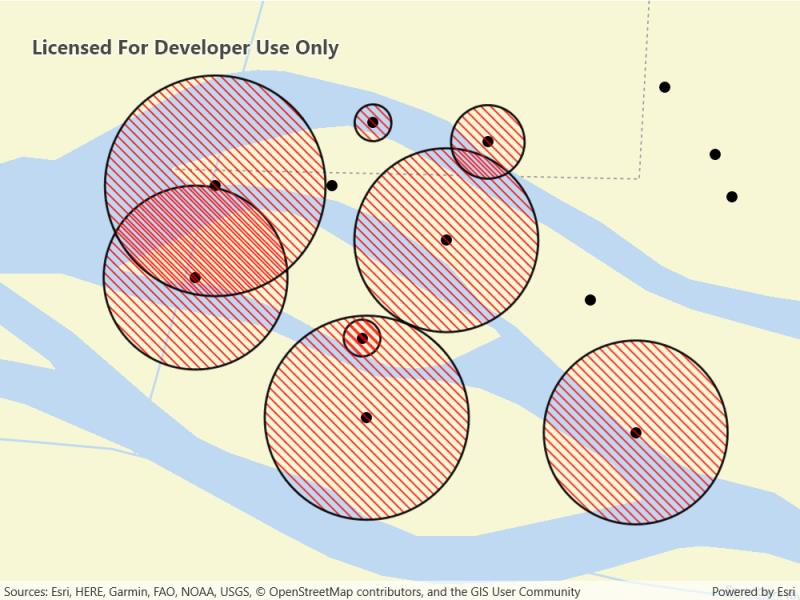
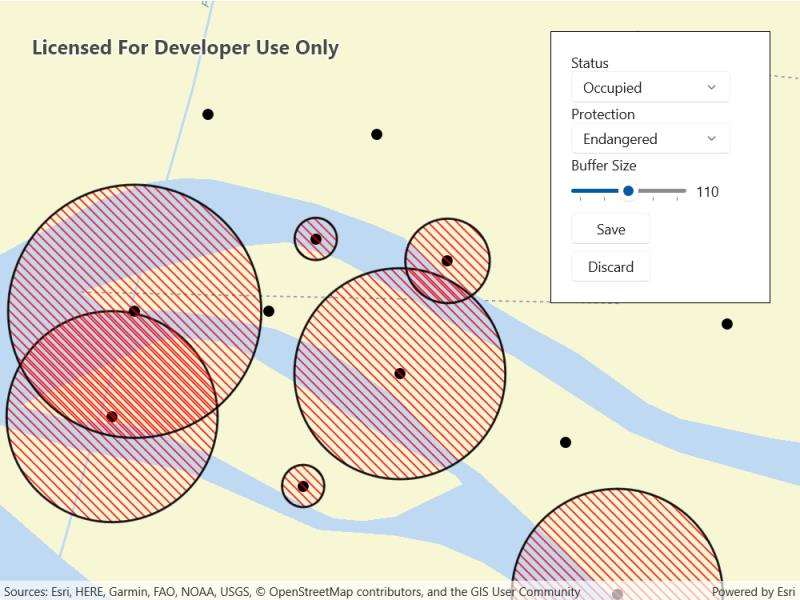
Implemented PR feedback

diff --git a/src/WinUI/ArcGISRuntime.WinUI.Viewer/Samples/Data/AddFeaturesWithContingentValues/AddFeaturesWithContingentValues.xaml b/src/WinUI/ArcGISRuntime.WinUI.Viewer/Samples/Data/AddFeaturesWithContingentValues/AddFeaturesWithContingentValues.xaml
@@ -22,7 +22,7 @@
                             TickPlacement="BottomRight" />
                     <TextBlock Width="40"
                                Height="20"
-                               Margin="5,0"
+                               Margin="10,0"
                                Text="{Binding ElementName=BufferSizeSlider, Path=Value, UpdateSourceTrigger=PropertyChanged}"
                                TextAlignment="left" />
                 </StackPanel>

diff --git a/src/WPF/ArcGISRuntime.WPF.Viewer/Samples/Data/AddFeaturesWithContingentValues/AddFeaturesWithContingentValues.xaml b/src/WPF/ArcGISRuntime.WPF.Viewer/Samples/Data/AddFeaturesWithContingentValues/AddFeaturesWithContingentValues.xaml
@@ -22,6 +22,7 @@
                             TickPlacement="BottomRight" />
                     <TextBlock Width="40"
                                Height="20"
+                               Margin="5,0"
                                Text="{Binding ElementName=BufferSizeSlider, Path=Value, UpdateSourceTrigger=PropertyChanged}"
                                TextAlignment="left" />
                 </StackPanel>

diff --git a/src/Forms/Shared/Samples/Data/AddFeaturesWithContingentValues/AddFeaturesWithContingentValues.xaml b/src/Forms/Shared/Samples/Data/AddFeaturesWithContingentValues/AddFeaturesWithContingentValues.xaml
@@ -27,7 +27,7 @@
                             ValueChanged="BufferSizeSlider_ValueChanged"
                             WidthRequest="250" />
                     <Label x:Name="BufferSizeLabel"
-                           Margin="5,0"
+                           Margin="0,0"
                            HeightRequest="20"
                            WidthRequest="40" />
                 </StackLayout>

diff --git a/src/Forms/Shared/Samples/Data/AddFeaturesWithContingentValues/AddFeaturesWithContingentValues.xaml.cs b/src/Forms/Shared/Samples/Data/AddFeaturesWithContingentValues/AddFeaturesWithContingentValues.xaml.cs
@@ -7,21 +7,17 @@
 // "AS IS" BASIS, WITHOUT WARRANTIES OR CONDITIONS OF ANY KIND, either express or implied. See the License for the specific
 // language governing permissions and limitations under the License.
 
+using ArcGISRuntime.Samples.Managers;
 using Esri.ArcGISRuntime.Data;
 using Esri.ArcGISRuntime.Geometry;
 using Esri.ArcGISRuntime.Mapping;
 using Esri.ArcGISRuntime.Symbology;
-using Esri.ArcGISRuntime.Tasks;
-using Esri.ArcGISRuntime.Tasks.Offline;
 using Esri.ArcGISRuntime.UI;
-using Esri.ArcGISRuntime.ArcGISServices;
-using Esri.ArcGISRuntime.UI.Controls;
+using System;
+using System.Collections.Generic;
+using System.Linq;
 using System.Threading.Tasks;
 using Xamarin.Forms;
-using System.Collections.Generic;
-using ArcGISRuntime.Samples.Managers;
-using System;
-using System.Linq;
 
 namespace ArcGISRuntimeXamarin.Samples.AddFeaturesWithContingentValues
 {
@@ -76,7 +72,7 @@ namespace ArcGISRuntimeXamarin.Samples.AddFeaturesWithContingentValues
             Geodatabase geodatabase = await Geodatabase.OpenAsync(geodatabasePath);
 
             // Load the Geodatabase, GeodatabaseFeatureTable and the ContingentValuesDefinition.
-            // Get the 'Trailheads' geodatabase feature table from the mobile geodatabase.
+            // Get the 'BirdNests' geodatabase feature table from the mobile geodatabase.
             _geodatabaseFeatureTable = geodatabase.GetGeodatabaseFeatureTable("BirdNests");
 
             // Asynchronously load the 'BirdNests' geodatabase feature table.
@@ -106,14 +102,10 @@ namespace ArcGISRuntimeXamarin.Samples.AddFeaturesWithContingentValues
 
             #endregion GraphicsOverlay
 
-            #region Viewpoint
+            #region Initialize UI components
 
             // Zoom the map to the extent of the FeatureLayer.
             await MyMapView.SetViewpointGeometryAsync(nestLayer.FullExtent, 50);
-
-            #endregion Viewpoint
-
-            #region Initialize UI components
 
             StatusPicker.ItemsSource = _statusValues.Keys.ToList();
             FeatureAttributesPopup.IsVisible = false;
@@ -242,10 +234,10 @@ namespace ArcGISRuntimeXamarin.Samples.AddFeaturesWithContingentValues
             return false;
         }
 
-        private void CreateNewNest()
+        private async Task CreateNewNest()
         {
             // Once the attribute map is filled and validated, save the feature to the geodatabase feature table.
-            _ = _geodatabaseFeatureTable.UpdateFeatureAsync(_newFeature);
+            await _geodatabaseFeatureTable.UpdateFeatureAsync(_newFeature);
 
             _ = QueryAndBufferFeatures();
 
@@ -304,9 +296,9 @@ namespace ArcGISRuntimeXamarin.Samples.AddFeaturesWithContingentValues
             // Get the appropriate contingent values for populating the protection combo component.
             if (protectionItems.Any())
             {
-                ProtectionPicker.SelectedIndexChanged -= ProtectionCombo_Selected;
+                ProtectionPicker.SelectedIndexChanged -= ProtectionCombo_SelectedIndexChanged;
                 ProtectionPicker.ItemsSource = protectionItems;
-                ProtectionPicker.SelectedIndexChanged += ProtectionCombo_Selected;
+                ProtectionPicker.SelectedIndexChanged += ProtectionCombo_SelectedIndexChanged;
             }
         }
 
@@ -318,17 +310,28 @@ namespace ArcGISRuntimeXamarin.Samples.AddFeaturesWithContingentValues
             if (minMax[0] != "")
             {
                 // Set the minimum and maximum slider values based on the valid contingent value buffer size range.
-                BufferSizeSlider.Maximum = double.Parse(minMax[1]);
-                BufferSizeSlider.Minimum = double.Parse(minMax[0]);
-
-                BufferSizeSlider.Value = BufferSizeSlider.Minimum;
-
-                // If the max value in the range is 0, set the buffer size to 0.
                 if (minMax[1] == "0")
                 {
+                    // If the max value in the range is 0, set the buffer size to 0.
+                    BufferSizeSlider.Minimum = 0;
+                    BufferSizeSlider.Maximum = 1;
+                    BufferSizeSlider.IsEnabled = false;
+
                     // Update the feature's buffer size with the selected value.
                     await UpdateField("BufferSize", 0);
                 }
+                else if (BufferSizeSlider.Maximum <= double.Parse(minMax[0]))
+                {
+                    BufferSizeSlider.Maximum = double.Parse(minMax[1]);
+                    BufferSizeSlider.Minimum = double.Parse(minMax[0]);
+                }
+                else
+                {
+                    BufferSizeSlider.Minimum = double.Parse(minMax[0]);
+                    BufferSizeSlider.Maximum = double.Parse(minMax[1]);
+                }
+
+                BufferSizeSlider.Value = BufferSizeSlider.Minimum;
             }
         }
 
@@ -340,7 +343,7 @@ namespace ArcGISRuntimeXamarin.Samples.AddFeaturesWithContingentValues
             // If the contingent values are valid, save the data and hide the attribute panel.
             if (ValidateContingentValues(out fieldGroupNames, out numberOfViolations))
             {
-                CreateNewNest();
+                _ = CreateNewNest();
 
                 FeatureAttributesPopup.IsVisible = false;
             }
@@ -348,6 +351,15 @@ namespace ArcGISRuntimeXamarin.Samples.AddFeaturesWithContingentValues
             {
                 await Application.Current.MainPage.DisplayAlert("Error", $"Error saving feature. {numberOfViolations} violation(s) in field group(s) {string.Join(", ", fieldGroupNames)}.", "OK");
             }
+        }
+
+        private void ClearAndDisableBufferSizeSlider()
+        {
+            BufferSizeSlider.Minimum = 0;
+            BufferSizeSlider.Maximum = 1;
+            BufferSizeSlider.Value = BufferSizeSlider.Minimum;
+            BufferSizeLabel.Text = BufferSizeSlider.Minimum.ToString();
+            BufferSizeSlider.IsEnabled = false;
         }
 
         #endregion AddFeature
@@ -363,18 +375,35 @@ namespace ArcGISRuntimeXamarin.Samples.AddFeaturesWithContingentValues
             }
         }
 
-        private void StatusCombo_Selected(object sender, EventArgs e)
+        private void StatusCombo_SelectedIndexChanged(object sender, EventArgs e)
         {
             // Update the feature's attribute map with the selection.
             _ = UpdateField("Status", StatusPicker.SelectedItem);
             _ = SetProtectionComboItems();
+
+            if (BufferSizeSlider.IsEnabled)
+            {
+                ClearAndDisableBufferSizeSlider();
+            }
         }
 
-        private void ProtectionCombo_Selected(object sender, EventArgs e)
+        private void ProtectionCombo_SelectedIndexChanged(object sender, EventArgs e)
         {
             // Update the feature's attribute map with the selection.
             _ = UpdateField("Protection", ProtectionPicker.SelectedItem);
-            _ = SetBufferSizeSliderRange();
+
+            BufferSizeSlider.IsEnabled = ProtectionPicker.SelectedIndex != -1;
+
+            if (ProtectionPicker.SelectedIndex == -1)
+            {
+                BufferSizeSlider.Minimum = 0;
+                BufferSizeSlider.Maximum = 1;
+                BufferSizeSlider.Value = BufferSizeSlider.Minimum;
+            }
+            else
+            {
+                _ = SetBufferSizeSliderRange();
+            }
         }
 
         private void BufferSizeSlider_ValueChanged(object sender, ValueChangedEventArgs e)
@@ -409,8 +438,8 @@ namespace ArcGISRuntimeXamarin.Samples.AddFeaturesWithContingentValues
             // Disable event handlers when the attribute panel is hidden.
             if (!FeatureAttributesPopup.IsVisible)
             {
-                StatusPicker.SelectedIndexChanged -= StatusCombo_Selected;
-                ProtectionPicker.SelectedIndexChanged -= ProtectionCombo_Selected;
+                StatusPicker.SelectedIndexChanged -= StatusCombo_SelectedIndexChanged;
+                ProtectionPicker.SelectedIndexChanged -= ProtectionCombo_SelectedIndexChanged;
                 BufferSizeSlider.ValueChanged -= BufferSizeSlider_ValueChanged;
 
                 return;
@@ -419,12 +448,11 @@ namespace ArcGISRuntimeXamarin.Samples.AddFeaturesWithContingentValues
             // Reset attribute panel values when the panel opens.
             StatusPicker.SelectedIndex = -1;
             ProtectionPicker.SelectedIndex = -1;
-            BufferSizeSlider.Value = BufferSizeSlider.Minimum;
-            BufferSizeLabel.Text = BufferSizeSlider.Minimum.ToString();
+            ClearAndDisableBufferSizeSlider();
 
             // Add the event handlers to the attribute panel.
-            StatusPicker.SelectedIndexChanged += StatusCombo_Selected;
-            ProtectionPicker.SelectedIndexChanged += ProtectionCombo_Selected;
+            StatusPicker.SelectedIndexChanged += StatusCombo_SelectedIndexChanged;
+            ProtectionPicker.SelectedIndexChanged += ProtectionCombo_SelectedIndexChanged;
             BufferSizeSlider.ValueChanged += BufferSizeSlider_ValueChanged;
         }
 

diff --git a/src/WPF/ArcGISRuntime.WPF.Viewer/Samples/Data/AddFeaturesWithContingentValues/AddFeaturesWithContingentValues.xaml.cs b/src/WPF/ArcGISRuntime.WPF.Viewer/Samples/Data/AddFeaturesWithContingentValues/AddFeaturesWithContingentValues.xaml.cs
@@ -17,7 +17,6 @@ using Esri.ArcGISRuntime.UI.Controls;
 using System;
 using System.Collections.Generic;
 using System.Linq;
-using System.Text.RegularExpressions;
 using System.Threading.Tasks;
 using System.Windows;
 
@@ -74,7 +73,7 @@ namespace ArcGISRuntime.WPF.Samples.AddFeaturesWithContingentValues
             Geodatabase geodatabase = await Geodatabase.OpenAsync(geodatabasePath);
 
             // Load the Geodatabase, GeodatabaseFeatureTable and the ContingentValuesDefinition.
-            // Get the 'Trailheads' geodatabase feature table from the mobile geodatabase.
+            // Get the 'BirdNests' geodatabase feature table from the mobile geodatabase.
             _geodatabaseFeatureTable = geodatabase.GetGeodatabaseFeatureTable("BirdNests");
 
             // Asynchronously load the 'BirdNests' geodatabase feature table.
@@ -104,14 +103,10 @@ namespace ArcGISRuntime.WPF.Samples.AddFeaturesWithContingentValues
 
             #endregion GraphicsOverlay
 
-            #region Viewpoint
+            #region Initialize UI components
 
             // Zoom the map to the extent of the FeatureLayer.
             await MyMapView.SetViewpointGeometryAsync(nestLayer.FullExtent, 50);
-
-            #endregion Viewpoint
-
-            #region Initialize UI components
 
             StatusCombo.ItemsSource = _statusValues.Keys;
             FeatureAttributesPanel.Visibility = Visibility.Hidden;
@@ -239,10 +234,10 @@ namespace ArcGISRuntime.WPF.Samples.AddFeaturesWithContingentValues
             return false;
         }
 
-        private void CreateNewNest()
+        private async Task CreateNewNest()
         {
             // Once the attribute map is filled and validated, save the feature to the geodatabase feature table.
-            _ = _geodatabaseFeatureTable.UpdateFeatureAsync(_newFeature);
+            await _geodatabaseFeatureTable.UpdateFeatureAsync(_newFeature);
 
             _ = QueryAndBufferFeatures();
 
@@ -369,7 +364,7 @@ namespace ArcGISRuntime.WPF.Samples.AddFeaturesWithContingentValues
             // If the contingent values are valid, save the data and hide the attribute panel.
             if (ValidateContingentValues(out fieldGroupNames, out numberOfViolations))
             {
-                CreateNewNest();
+                _ = CreateNewNest();
 
                 FeatureAttributesPanel.Visibility = Visibility.Hidden;
             }

diff --git a/src/WinUI/ArcGISRuntime.WinUI.Viewer/Samples/Data/AddFeaturesWithContingentValues/AddFeaturesWithContingentValues.xaml.cs b/src/WinUI/ArcGISRuntime.WinUI.Viewer/Samples/Data/AddFeaturesWithContingentValues/AddFeaturesWithContingentValues.xaml.cs
@@ -73,7 +73,7 @@ namespace ArcGISRuntime.WinUI.Samples.AddFeaturesWithContingentValues
             Geodatabase geodatabase = await Geodatabase.OpenAsync(geodatabasePath);
 
             // Load the Geodatabase, GeodatabaseFeatureTable and the ContingentValuesDefinition.
-            // Get the 'Trailheads' geodatabase feature table from the mobile geodatabase.
+            // Get the 'BirdNests' geodatabase feature table from the mobile geodatabase.
             _geodatabaseFeatureTable = geodatabase.GetGeodatabaseFeatureTable("BirdNests");
 
             // Asynchronously load the 'BirdNests' geodatabase feature table.
@@ -103,14 +103,10 @@ namespace ArcGISRuntime.WinUI.Samples.AddFeaturesWithContingentValues
 
             #endregion GraphicsOverlay
 
-            #region Viewpoint
+            #region Initialize UI components
 
             // Zoom the map to the extent of the FeatureLayer.
             await MyMapView.SetViewpointGeometryAsync(nestLayer.FullExtent, 50);
-
-            #endregion Viewpoint
-
-            #region Initialize UI components
 
             StatusCombo.ItemsSource = _statusValues.Keys;
             FeatureAttributesPanel.Visibility = Visibility.Collapsed;
@@ -239,10 +235,10 @@ namespace ArcGISRuntime.WinUI.Samples.AddFeaturesWithContingentValues
             return false;
         }
 
-        private void CreateNewNest()
+        private async Task CreateNewNest()
         {
             // Once the attribute map is filled and validated, save the feature to the geodatabase feature table.
-            _ = _geodatabaseFeatureTable.UpdateFeatureAsync(_newFeature);
+            await _geodatabaseFeatureTable.UpdateFeatureAsync(_newFeature);
 
             _ = QueryAndBufferFeatures();
 
@@ -337,7 +333,7 @@ namespace ArcGISRuntime.WinUI.Samples.AddFeaturesWithContingentValues
             // If the contingent values are valid, save the data and hide the attribute panel.
             if (ValidateContingentValues(out fieldGroupNames, out numberOfViolations))
             {
-                CreateNewNest();
+                _ = CreateNewNest();
 
                 FeatureAttributesPanel.Visibility = Visibility.Collapsed;
             }
